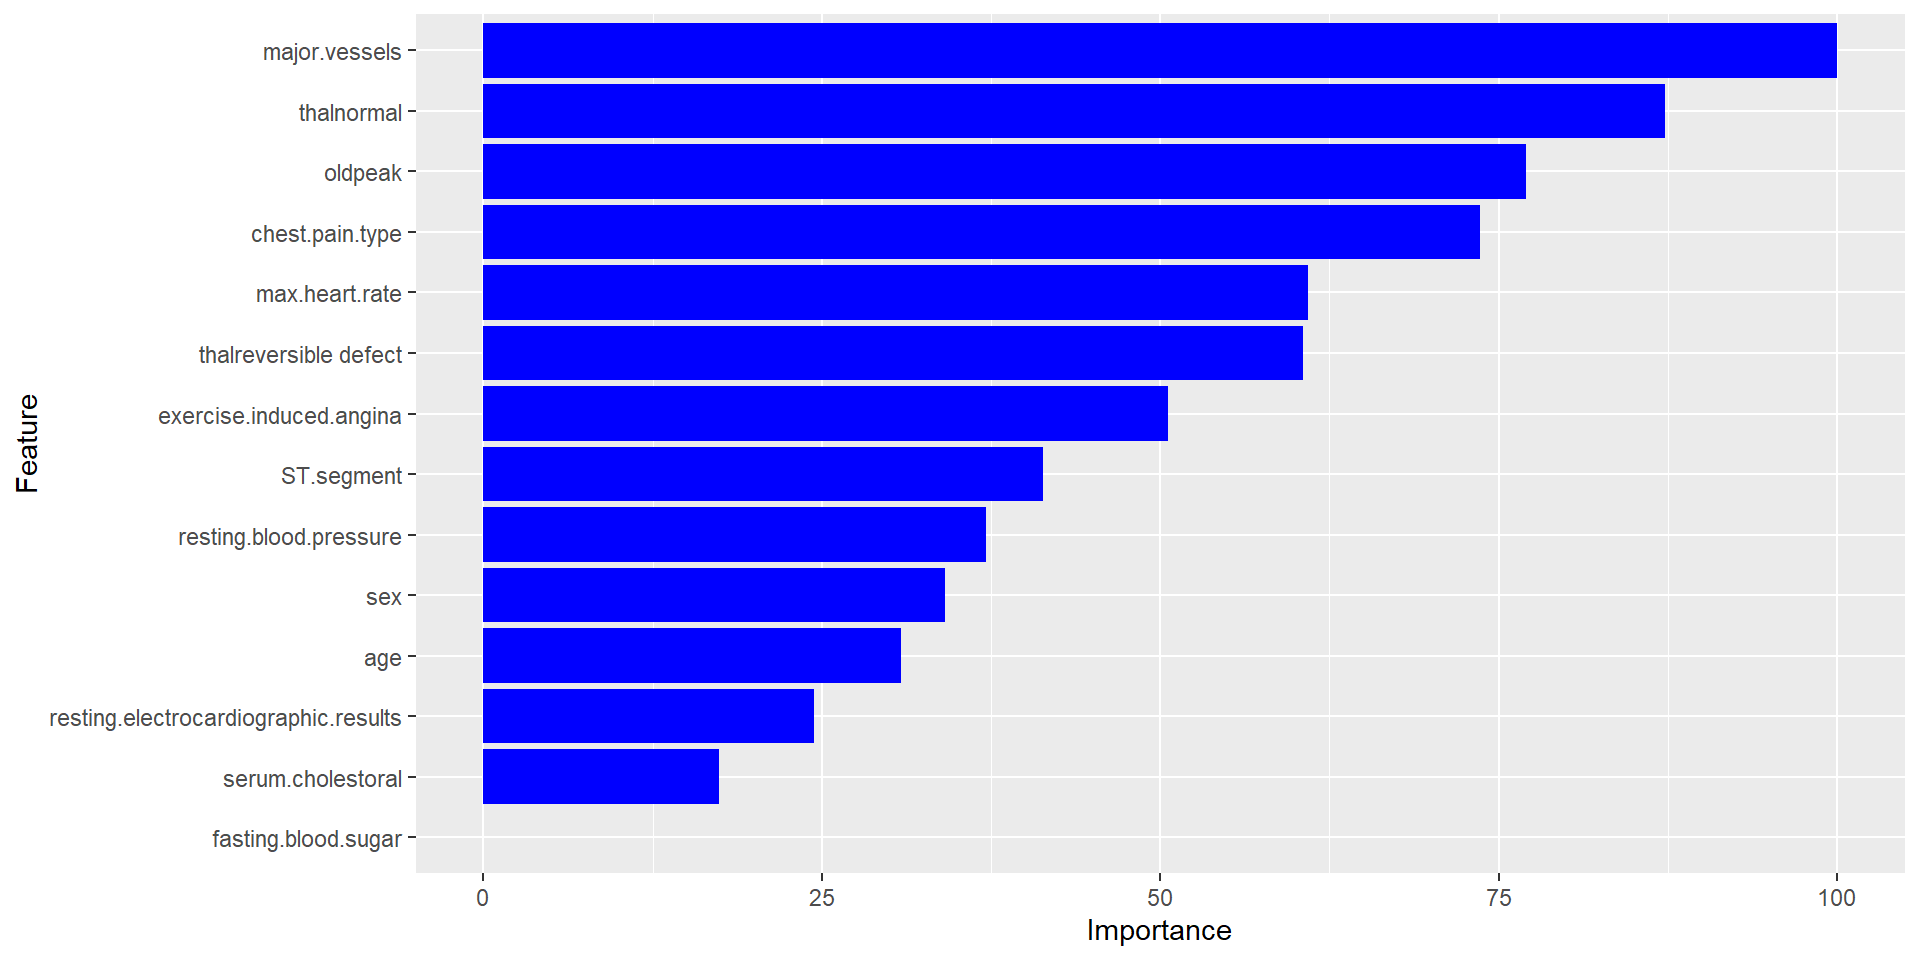
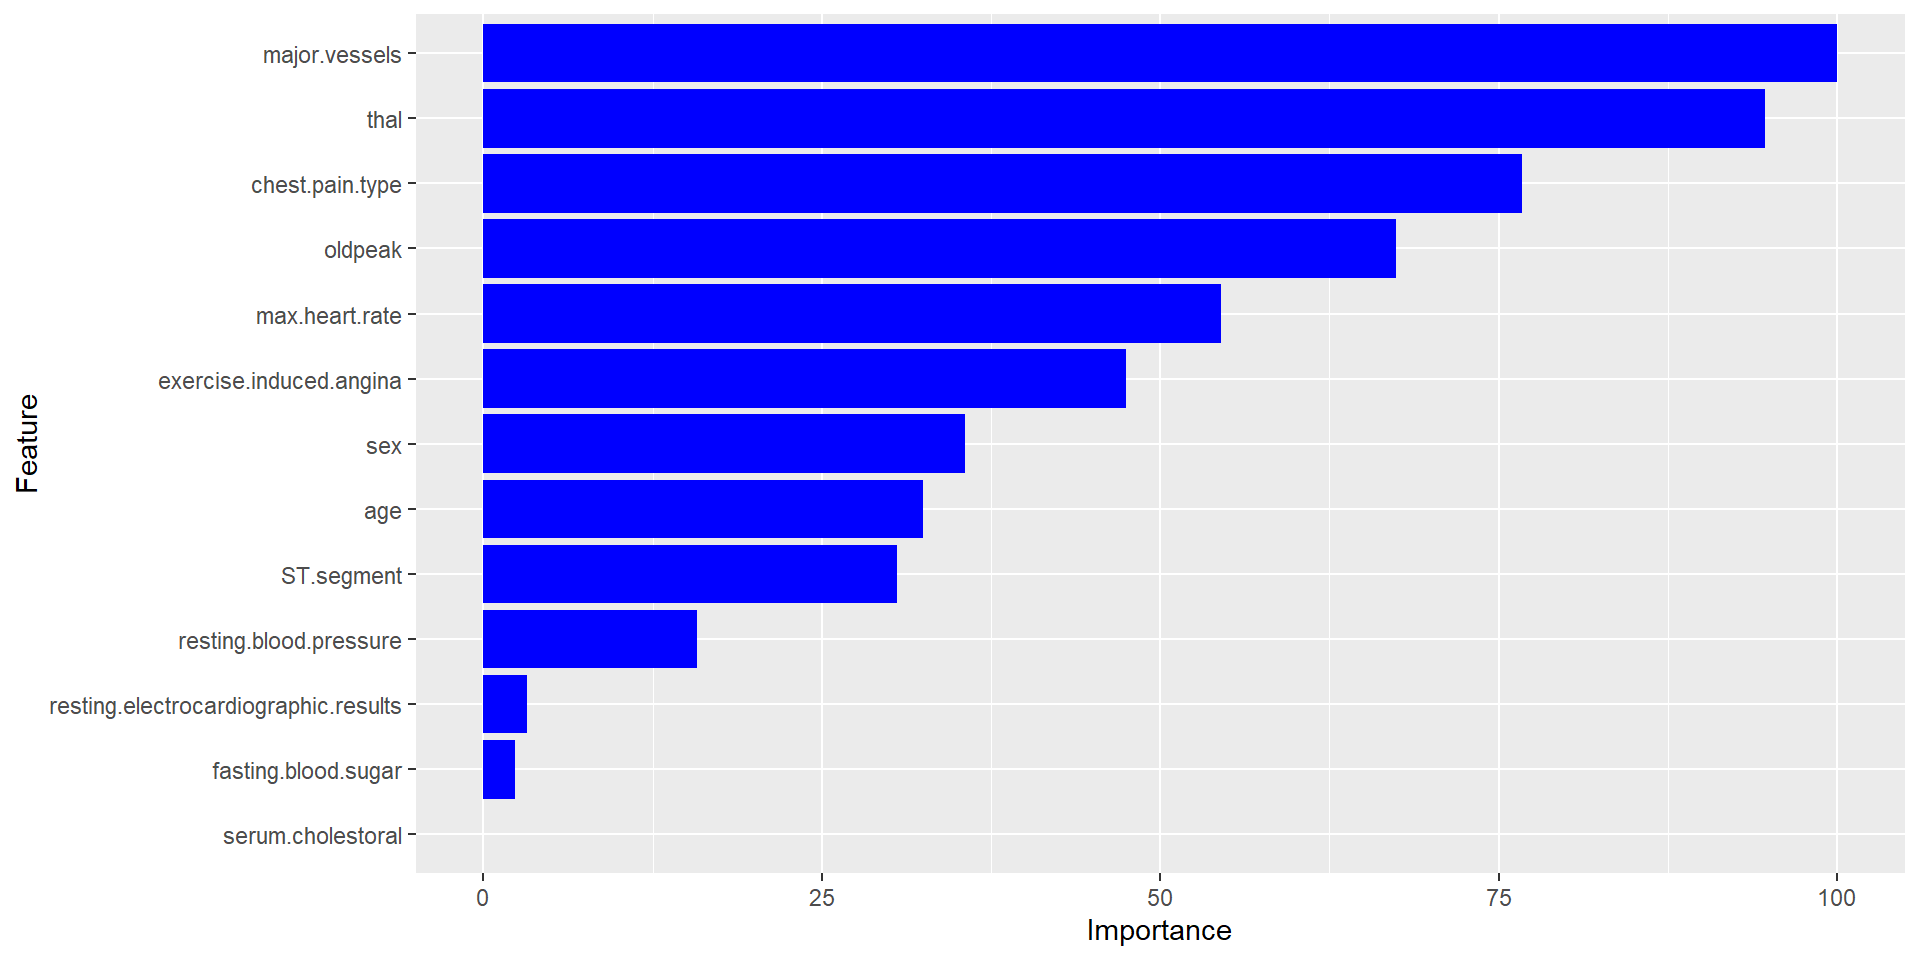
Update slides

diff --git a/slides.html b/slides.html
@@ -495,13 +495,8 @@ https://www.kaggle.com/datasets/utkarshx27/heart-disease-diagnosis-dataset</li>
 <section id="data-transformation" class="slide level2" style="font-size: 80%;">
 <h2>Data Transformation</h2>
 <ul>
-<li><p>Features Heart Disease and Thal were set to a factor variable</p></li>
-<li><p>Feature Thal was transformed as follows:</p>
-<ul>
-<li><p>Value 3 to normal</p></li>
-<li><p>Value 6 to fixed defect</p></li>
-<li><p>Value 7 to reversible defect</p></li>
-</ul></li>
+<li>Random forest classification model requires a dependent factor variable.</li>
+<li>Target variable heart disease was transformed to a factor variable.</li>
 </ul>
 </section>
 <section id="model-training" class="slide level2" style="font-size: 80%;">
@@ -518,7 +513,7 @@ https://www.kaggle.com/datasets/utkarshx27/heart-disease-diagnosis-dataset</li>
 <ul>
 <li><p>13 Predictor Features</p></li>
 <li><p>500 Decision Trees, 2 Features considered</p></li>
-<li><p>Accuracy = 0.8472</p></li>
+<li><p>Accuracy = 0.8358</p></li>
 </ul>
 <div class="cell">
 <div class="cell-output cell-output-stdout">
@@ -534,9 +529,9 @@ Summary of sample sizes: 169, 170, 170, 171, 169, 171, ...
 Resampling results across tuning parameters:
 
   mtry  Accuracy   Kappa    
-   2    0.8471930  0.6869781
-   8    0.8311111  0.6550283
-  14    0.8258480  0.6427563
+   2    0.8357895  0.6638724
+   7    0.8311404  0.6531982
+  13    0.8264035  0.6444556
 
 Accuracy was used to select the optimal model using the largest value.
 The final value used for the model was mtry = 2.</code></pre>
@@ -548,7 +543,7 @@ The final value used for the model was mtry = 2.</code></pre>
 <ul>
 <li><p>13 Predictor Features</p></li>
 <li><p>500 Decision Trees, 2 Features considered</p></li>
-<li><p>Accuracy = .08330</p></li>
+<li><p>Accuracy = .8322</p></li>
 </ul>
 <div class="cell">
 <div class="cell-output cell-output-stdout">
@@ -564,9 +559,9 @@ Summary of sample sizes: 189, 189, 189, 189, 189, 189, ...
 Resampling results across tuning parameters:
 
   mtry  Accuracy   Kappa    
-   2    0.8330381  0.6595505
-   8    0.8236219  0.6407188
-  14    0.8097574  0.6129731
+   2    0.8321817  0.6571619
+   7    0.8229013  0.6393790
+  13    0.8117677  0.6172537
 
 Accuracy was used to select the optimal model using the largest value.
 The final value used for the model was mtry = 2.</code></pre>
@@ -578,7 +573,7 @@ The final value used for the model was mtry = 2.</code></pre>
 <ul>
 <li><p>Bootstrap randomly selects n number of observations with replacement.</p></li>
 <li><p>K-Fold Cross-validation creates subsets of the data then randomly shuffles the observations into the subset “folds”.</p></li>
-<li><p>K-Fold trial was more accurate 0.8472 vs 0.8330.</p></li>
+<li><p>K-Fold trial was more accurate 0.8358 vs 0.8322.</p></li>
 </ul>
 </section>
 <section id="k-fold-cross-validation-tuning-the-model" class="slide level2" style="font-size: 60%;">
@@ -598,16 +593,16 @@ Summary of sample sizes: 169, 170, 170, 171, 169, 171, ...
 Resampling results across tuning parameters:
 
   mtry  Accuracy   Kappa    
-   1    0.8521637  0.6957755
-   2    0.8574561  0.7059519
-   3    0.8416374  0.6747361
-   4    0.8416667  0.6744959
-   5    0.8150292  0.6211198
-   6    0.8258480  0.6437005
-   7    0.8311111  0.6536152
-   8    0.8202924  0.6328778
-   9    0.8311111  0.6547690
-  10    0.8103216  0.6146161
+   1    0.8308187  0.6497031
+   2    0.8521637  0.6938909
+   3    0.8407895  0.6711918
+   4    0.8410819  0.6746692
+   5    0.8305556  0.6515543
+   6    0.8311404  0.6546218
+   7    0.8261404  0.6452077
+   8    0.8150292  0.6223296
+   9    0.8150292  0.6232846
+  10    0.8047953  0.6038736
 
 Accuracy was used to select the optimal model using the largest value.
 The final value used for the model was mtry = 2.</code></pre>
@@ -627,17 +622,17 @@ Number of resamples: 10
 
 Accuracy 
         Min.   1st Qu.    Median      Mean   3rd Qu. Max. NA's
-5  0.6842105 0.8333333 0.8500000 0.8524561 0.8947368    1    0
-6  0.7368421 0.8333333 0.8500000 0.8577193 0.8947368    1    0
-7  0.6842105 0.8375000 0.8694444 0.8527485 0.8947368    1    0
-8  0.6842105 0.8333333 0.8947368 0.8571930 0.9000000    1    0
-9  0.6842105 0.8375000 0.8694444 0.8580117 0.8947368    1    0
-10 0.7368421 0.8333333 0.8723684 0.8627193 0.8986842    1    0
-11 0.6842105 0.8333333 0.8500000 0.8471930 0.8947368    1    0
-12 0.7368421 0.7833333 0.8377193 0.8416374 0.8855263    1    0
-13 0.6842105 0.8083333 0.8460526 0.8477485 0.8932749    1    0
-14 0.6842105 0.8333333 0.8723684 0.8574561 0.8986842    1    0
-15 0.6842105 0.8375000 0.8918129 0.8630117 0.8986842    1    0</code></pre>
+5  0.6842105 0.8355263 0.8947368 0.8674269 0.9000000    1    0
+6  0.6842105 0.8355263 0.8947368 0.8674269 0.9000000    1    0
+7  0.6842105 0.7807018 0.8210526 0.8360819 0.8947368    1    0
+8  0.7368421 0.8355263 0.8460526 0.8624269 0.8986842    1    0
+9  0.6842105 0.8355263 0.8460526 0.8519006 0.8947368    1    0
+10 0.6842105 0.7921053 0.8377193 0.8363743 0.8815789    1    0
+11 0.7368421 0.7938596 0.8421053 0.8463450 0.8835526    1    0
+12 0.6842105 0.7833333 0.8421053 0.8413450 0.8855263    1    0
+13 0.6842105 0.8355263 0.8421053 0.8521930 0.8835526    1    0
+14 0.6842105 0.8083333 0.8421053 0.8521637 0.8986842    1    0
+15 0.6842105 0.8355263 0.8421053 0.8569006 0.9000000    1    0</code></pre>
 </div>
 </div>
 </section>
@@ -653,32 +648,33 @@ Models: 100, 200, 300, 400, 500, 600, 700, 800, 900, 1000
 Number of resamples: 10 
 
 Accuracy 
-          Min.   1st Qu.    Median      Mean   3rd Qu. Max. NA's
-100  0.6842105 0.7958333 0.8918129 0.8574561 0.8986842    1    0
-200  0.6842105 0.8472222 0.8947368 0.8680117 0.9000000    1    0
-300  0.6842105 0.8333333 0.8947368 0.8571930 0.9000000    1    0
-400  0.6842105 0.8472222 0.8947368 0.8627485 0.9000000    1    0
-500  0.6842105 0.8333333 0.8947368 0.8571930 0.9000000    1    0
-600  0.6842105 0.8333333 0.8723684 0.8521930 0.8986842    1    0
-700  0.6842105 0.8333333 0.8947368 0.8571930 0.9000000    1    0
-800  0.6842105 0.8333333 0.8947368 0.8571930 0.9000000    1    0
-900  0.6842105 0.8333333 0.8947368 0.8571930 0.9000000    1    0
-1000 0.6842105 0.8333333 0.8723684 0.8521930 0.8986842    1    0</code></pre>
+          Min.   1st Qu.    Median      Mean   3rd Qu.      Max. NA's
+100  0.7368421 0.7777778 0.8947368 0.8457895 0.8986842 0.9444444    0
+200  0.7368421 0.7807018 0.8947368 0.8618713 0.9000000 1.0000000    0
+300  0.6842105 0.8355263 0.8947368 0.8674269 0.9000000 1.0000000    0
+400  0.6842105 0.8355263 0.8460526 0.8571637 0.8986842 1.0000000    0
+500  0.6842105 0.8355263 0.8460526 0.8571637 0.8986842 1.0000000    0
+600  0.6842105 0.8355263 0.8460526 0.8571637 0.8986842 1.0000000    0
+700  0.6842105 0.8355263 0.8460526 0.8571637 0.8986842 1.0000000    0
+800  0.6842105 0.8355263 0.8460526 0.8571637 0.8986842 1.0000000    0
+900  0.6842105 0.8355263 0.8460526 0.8571637 0.8986842 1.0000000    0
+1000 0.6842105 0.8355263 0.8460526 0.8571637 0.8986842 1.0000000    0</code></pre>
 </div>
 </div>
 </section>
-<section id="k-fold-cross-validation-training-the-final-model" class="slide level2" style="font-size: 70%;">
+<section id="k-fold-cross-validation-training-the-final-model" class="slide level2" style="font-size: 65%;">
 <h2>K-Fold Cross-Validation: Training the Final Model</h2>
 <ul>
 <li><p>13 Predictor Features</p></li>
 <li><p>500 Decision Trees, 2 Features considered</p></li>
-<li><p>Default Training Model Accuracy = 0.8472</p></li>
+<li><p>Default Training Model Accuracy = 0.8358</p></li>
 </ul>
-<p>Model uses:</p>
+<p>Tuned Model uses:</p>
 <ul>
-<li><p>200 Trees</p></li>
-<li><p>8 nodes</p></li>
+<li><p>300 Trees</p></li>
+<li><p>6 nodes</p></li>
 <li><p>2 Features</p></li>
+<li><p>Accuracy = .8674</p></li>
 </ul>
 <div class="cell">
 <div class="cell-output cell-output-stdout">
@@ -694,7 +690,7 @@ Summary of sample sizes: 169, 170, 170, 171, 169, 171, ...
 Resampling results:
 
   Accuracy   Kappa    
-  0.8680117  0.7263713
+  0.8674269  0.7242847
 
 Tuning parameter 'mtry' was held constant at a value of 2</code></pre>
 </div>
@@ -716,7 +712,7 @@ Summary of sample sizes: 189, 189, 189, 189, 189, 189, ...
 Resampling results:
 
   Accuracy   Kappa    
-  0.8367264  0.6650343
+  0.8344737  0.6605306
 
 Tuning parameter 'mtry' was held constant at a value of 2</code></pre>
 </div>
@@ -725,18 +721,18 @@ Tuning parameter 'mtry' was held constant at a value of 2</code></pre>
 <section id="final-model-comparison" class="slide level2" style="font-size: 80%;">
 <h2>Final Model Comparison</h2>
 <ul>
-<li><p>K-Fold Cross-Validation Accuracy = .8680</p></li>
-<li><p>Bootstrap Accuracy = .8367</p></li>
+<li><p>K-Fold Cross-Validation Accuracy = .8674</p></li>
+<li><p>Bootstrap Accuracy = .8344</p></li>
 <li><p>Predictive Modeling will use K-Fold Cross-Validation due to higher accuracy</p></li>
 </ul>
 </section>
-<section id="predictive-modeling-most-influential-features" class="slide level2" style="font-size: 60%;">
+<section id="predictive-modeling-most-influential-features" class="slide level2" style="font-size: 55%;">
 <h2>Predictive Modeling: Most Influential Features</h2>
 <ul>
 <li><p>Major Vessels</p></li>
-<li><p>Type of Chest Pain</p></li>
-<li><p>Reversible Thal Defect</p></li>
-<li><p>Normal Thal</p></li>
+<li><p>Thal</p></li>
+<li><p>Chest Pain Type</p></li>
+<li><p>Old Peak</p></li>
 <li><p>Maximum Heart Rate</p></li>
 </ul>
 
@@ -744,9 +740,9 @@ Tuning parameter 'mtry' was held constant at a value of 2</code></pre>
 <section id="predictive-model-accuracy" class="slide level2" style="font-size: 70%;">
 <h2>Predictive Model Accuracy</h2>
 <ul>
-<li><p>82.5% (0.825, CI: 0.7238, 0.9009, p&lt; 0.001)</p></li>
-<li><p>Sensitivity and specificity were calculated at 0.909 and 0.722 respectively</p></li>
-<li><p>Estimated false positive rate of 28.57%</p></li>
+<li><p>83.8% (0.8375, CI: 0.7382, 0.9105, p&lt; 0.001)</p></li>
+<li><p>Sensitivity and specificity were calculated at 0.909 and 0.75 respectively</p></li>
+<li><p>Estimated false positive rate of 30.77%</p></li>
 </ul>
 
 <img data-src="slides_files/figure-revealjs/unnamed-chunk-16-1.png" width="960" class="r-stretch"></section>
